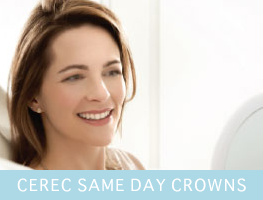
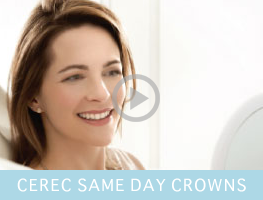
Update

Changed region(s): [[0.4259, 0.36, 0.6084, 0.63]]

diff --git a/templates/home.html b/templates/home.html
@@ -334,7 +334,7 @@
             </div>
             <div class="col-md-3 mt-10">
               <div class="feature-items text-center mt-30 border-5px">
-                <div class="thumb"><img class="img-fullwidth" src="{% static 'images/cerec.png' %}" alt="CEREC Same Day Crowns!"></div>
+                <div class="thumb"><a class="popup-youtube" href="https://www.youtube.com/watch?v=Cv52OgqVXDY"><img class="img-fullwidth" src="{% static 'images/cerec.png' %}" alt="CEREC Same Day Crowns!"></a></div>
                 <h4 class="font-20 mt-20"><a href="#">Same Day Crowns</a></h4>
                 <div class="details p-10 pt-0 pl-20 pr-20 pb-15">
                   <p class="mb-20 text-black">With CEREC technology, walk out in a short time with a completely restored tooth - All in one visit!</p>
